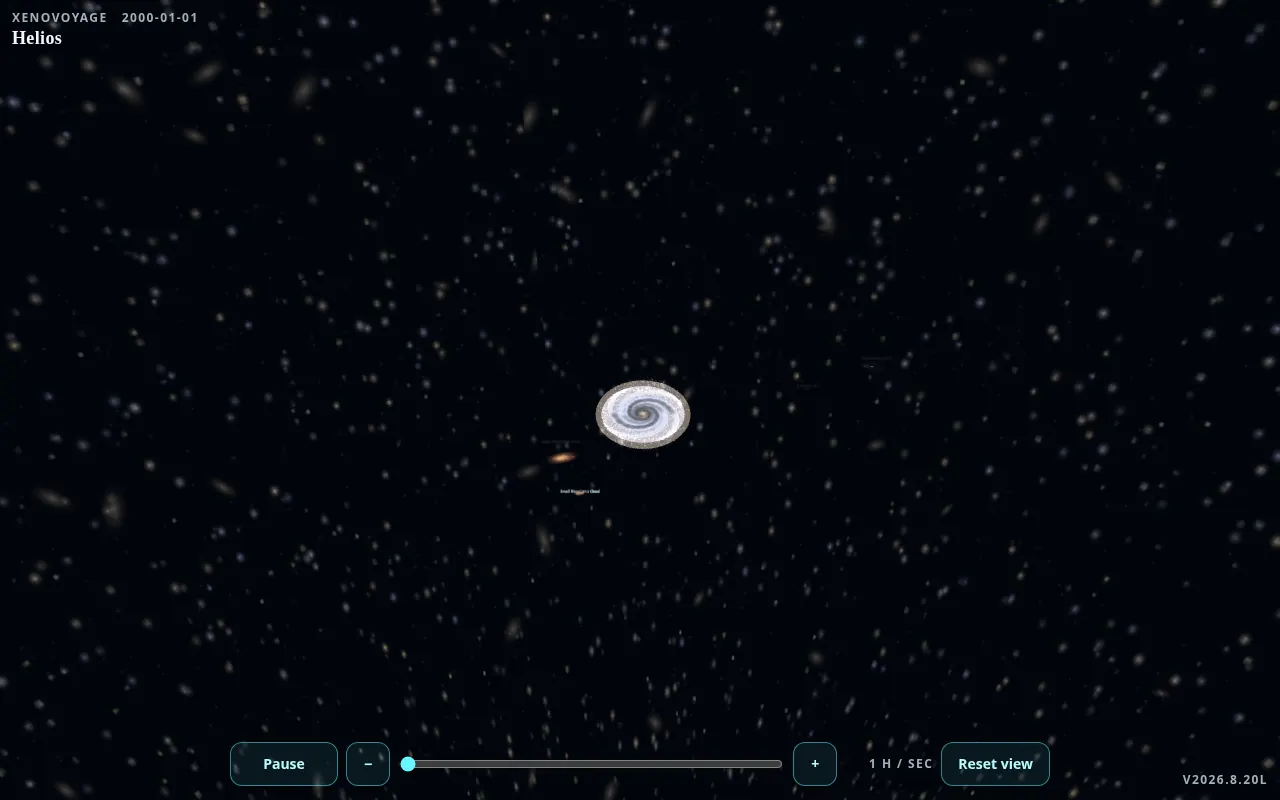
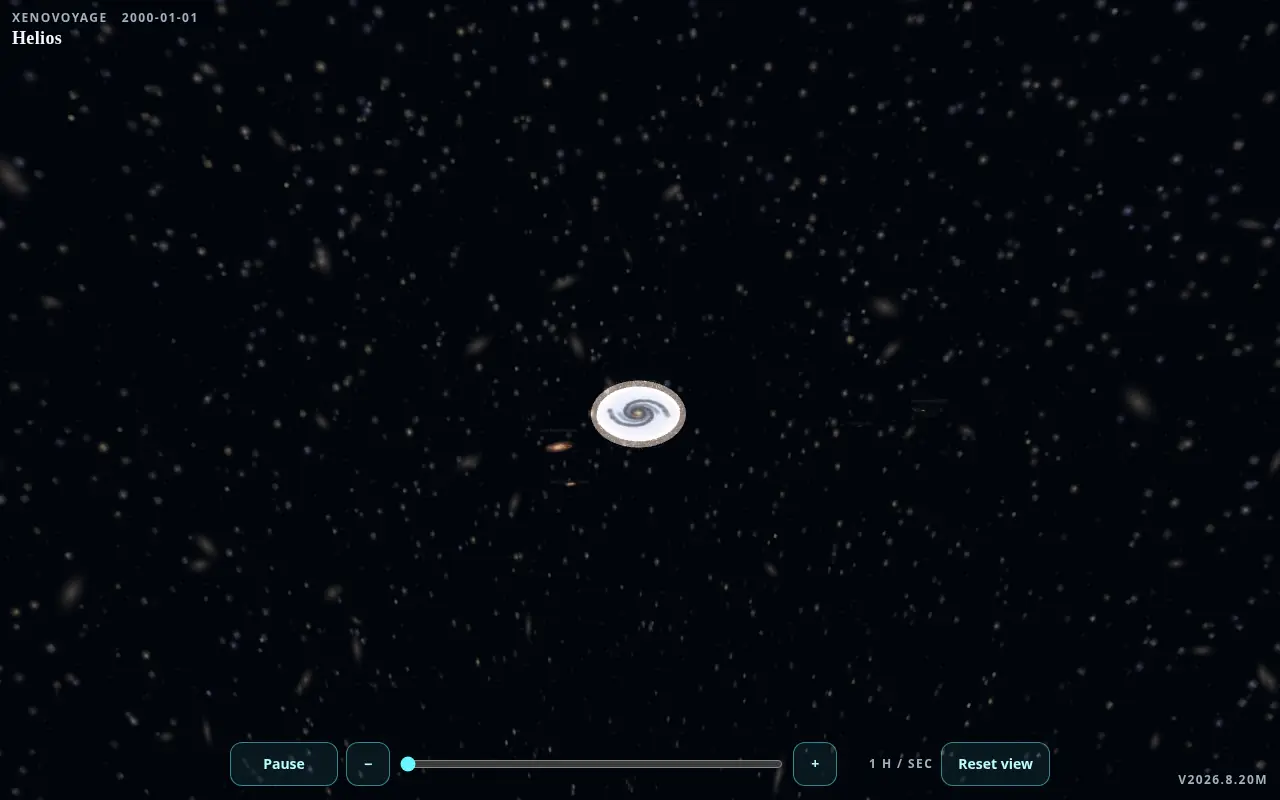
Extra-zoom audit: MW glow, Andromeda, later handoff
* Extra-zoom audit: keep MW, Andromeda, and handoff readable.

Aim ?look=handoff at the mid solar-to-MW fade so Kuiper still reads,
strengthen the luminous disk from glancing angles, stand Andromeda
off the Milky Way at neighborhood, and sample the far-galaxy sky
on the sphere so poles do not pinch.

* Recapture extra-zoom stills after the audit fix.

Dial the MW glow back so face-on stays a spiral instead of a
white plate. Keep the mid-fade handoff, Andromeda stand-off,
and spherical far-galaxy sky sampling.

---------

diff --git a/js/galaxy.js b/js/galaxy.js
@@ -339,7 +339,7 @@ function neighborFamilyAim(azimuthNudge = 0, elevationNudge = 0) {
 }
 
 export function neighborhoodCameraAim() {
-  return neighborFamilyAim();
+  return neighborFamilyAim(0.22, -0.04);
 }
 
 export function localGroupCameraAim() {
@@ -618,10 +618,10 @@ function milkyWayDiskMap(THREE) {
   const beta0 = Math.PI - thetaSun;
 
   const disk = ctx.createRadialGradient(cx, cy, 2, cx, cy, diskPx);
-  disk.addColorStop(0, "rgba(255, 226, 186, 0.92)");
-  disk.addColorStop(0.12, "rgba(255, 196, 148, 0.58)");
-  disk.addColorStop(0.34, "rgba(160, 180, 240, 0.38)");
-  disk.addColorStop(0.7, "rgba(100, 130, 210, 0.2)");
+  disk.addColorStop(0, "rgba(255, 226, 186, 0.9)");
+  disk.addColorStop(0.12, "rgba(255, 196, 148, 0.5)");
+  disk.addColorStop(0.34, "rgba(160, 180, 240, 0.3)");
+  disk.addColorStop(0.78, "rgba(100, 130, 210, 0.08)");
   disk.addColorStop(1, "rgba(0, 0, 0, 0)");
   ctx.fillStyle = disk;
   ctx.fillRect(0, 0, size, size);
@@ -652,8 +652,8 @@ function milkyWayDiskMap(THREE) {
       const y = cy + Math.sin(a) * r + (rand() - 0.5) * scatter;
       const fade = (1 - t * 0.55) * arm.alpha;
       stampSoft(ctx, x + 5, y + 3, 8 + t * 12, `rgba(40, 28, 22, ${0.1 * fade})`);
-      stampSoft(ctx, x, y, 18 + t * 24, `rgba(170, 200, 255, ${0.48 * fade})`);
-      stampSoft(ctx, x, y, 10 + t * 14, `rgba(255, 236, 210, ${0.62 * fade})`);
+      stampSoft(ctx, x, y, 18 + t * 24, `rgba(170, 200, 255, ${0.52 * fade})`);
+      stampSoft(ctx, x, y, 10 + t * 14, `rgba(255, 236, 210, ${0.66 * fade})`);
     }
     const clumps = arm.alpha > 0.8 ? 70 : 32;
     for (let i = 0; i < clumps; i += 1) {
@@ -856,13 +856,13 @@ function createDiskGlow(THREE, group) {
     new THREE.SphereGeometry(radius * 1.12, 40, 24),
     unlitBasic(THREE, {
       color: 0xffe2c4,
-      opacity: 0.24,
+      opacity: 0.28,
       side: THREE.DoubleSide,
       blending: THREE.AdditiveBlending,
     }),
   );
   glow.position.set(gc.x, gc.y, gc.z);
-  glow.scale.set(1, clamp((halfH * 4.2) / radius, 0.22, 0.42), 1);
+  glow.scale.set(1, clamp((halfH * 4.4) / radius, 0.24, 0.44), 1);
   glow.name = "mw-glow";
   group.add(glow);
 
@@ -870,13 +870,13 @@ function createDiskGlow(THREE, group) {
     new THREE.SphereGeometry(radius * 0.98, 48, 20),
     unlitBasic(THREE, {
       color: 0xd0dcff,
-      opacity: 0.2,
+      opacity: 0.26,
       side: THREE.DoubleSide,
       blending: THREE.AdditiveBlending,
     }),
   );
   edge.position.set(gc.x, gc.y, gc.z);
-  edge.scale.set(1, clamp((halfH * 2.6) / radius, 0.14, 0.28), 1);
+  edge.scale.set(1, clamp((halfH * 2.8) / radius, 0.16, 0.3), 1);
   edge.name = "mw-disk-edge";
   group.add(edge);
 
@@ -915,7 +915,7 @@ function neighborSpriteSize(neighbor) {
 }
 
 function neighborSizeBoost(neighbor) {
-  if (neighbor.id === "m31") return 2.15;
+  if (neighbor.id === "m31") return 2.4;
   if (neighbor.id === "lmc") return 1.85;
   if (neighbor.id === "smc") return 1.7;
   return 1.2;
@@ -934,10 +934,10 @@ function quietAndromedaMap(THREE) {
   ctx.rotate(-0.32);
   ctx.scale(1, 0.38);
   const disk = ctx.createRadialGradient(0, 0, 6, 0, 0, 118);
-  disk.addColorStop(0, "rgba(255, 228, 190, 0.95)");
-  disk.addColorStop(0.18, "rgba(210, 180, 150, 0.45)");
-  disk.addColorStop(0.55, "rgba(120, 140, 200, 0.22)");
-  disk.addColorStop(1, "rgba(40, 50, 80, 0)");
+  disk.addColorStop(0, "rgba(255, 232, 196, 1)");
+  disk.addColorStop(0.16, "rgba(230, 186, 140, 0.72)");
+  disk.addColorStop(0.48, "rgba(150, 120, 90, 0.4)");
+  disk.addColorStop(1, "rgba(50, 40, 30, 0)");
   ctx.fillStyle = disk;
   ctx.beginPath();
   ctx.arc(0, 0, 118, 0, Math.PI * 2);
@@ -964,7 +964,7 @@ function createNeighbors(THREE, group, maps) {
       : maps[galaxyKind(neighbor.id)] ?? maps.spiral;
     const sprite = new THREE.Sprite(unlitSprite(THREE, {
       map,
-      color: neighbor.id === "m31" ? 0xf4f0ea : 0xffffff,
+      color: neighbor.id === "m31" ? 0xffe8c8 : 0xffffff,
       depthTest: neighbor.id !== "m31",
       opacity: 0.96,
     }));
@@ -987,7 +987,7 @@ function createNeighbors(THREE, group, maps) {
     const label = neighbor.messier ? `${neighbor.name} (${neighbor.messier})` : neighbor.name;
     const lift = size * aspect * 0.65 + 48;
     const side = neighbor.id === "smc" ? 180 : neighbor.id === "lmc" ? -80 : 0;
-    const labelScale = neighbor.id === "lmc" || neighbor.id === "smc" ? 4.8 : neighbor.id === "m31" ? 5.2 : 4.4;
+    const labelScale = neighbor.id === "lmc" || neighbor.id === "smc" ? 4.8 : neighbor.id === "m31" ? 6.2 : 4.4;
     cluster.add(labelSprite(THREE, label, { x: at.x + side, y: at.y + lift, z: at.z }, labelScale));
   }
   group.add(cluster);
@@ -1419,20 +1419,27 @@ function farGalaxySkyMap(THREE) {
   ctx.fillRect(0, 0, width, height);
   const rand = seedRandom(4608);
   for (let i = 0; i < 14000; i += 1) {
-    const x = rand() * width;
-    const y = rand() * height;
+    const theta = rand() * Math.PI * 2;
+    const phi = Math.acos(2 * rand() - 1);
+    const x = (theta / (Math.PI * 2)) * width;
+    const y = (phi / Math.PI) * height;
+    const pole = Math.sin(phi);
     const warm = rand();
     stampSoft(
       ctx,
       x,
       y,
-      0.8 + rand() * 2.4,
+      (0.7 + rand() * 2.2) * (0.4 + 0.6 * pole),
       `rgba(${Math.floor(150 + 95 * warm)}, ${Math.floor(165 + 55 * warm)}, ${Math.floor(215 - 40 * warm)}, ${0.28 + rand() * 0.5})`,
     );
   }
   for (let i = 0; i < 420; i += 1) {
-    const x = rand() * width;
-    const y = rand() * height;
+    const theta = rand() * Math.PI * 2;
+    const phi = Math.acos(2 * rand() - 1);
+    const pole = Math.sin(phi);
+    if (pole < 0.28) continue;
+    const x = (theta / (Math.PI * 2)) * width;
+    const y = (phi / Math.PI) * height;
     ctx.save();
     ctx.translate(x, y);
     ctx.rotate(rand() * Math.PI);

diff --git a/js/config.js b/js/config.js
@@ -14,7 +14,7 @@
  * compressed-Mpc, or compressed-Gpc mappings, not AU.
  */
 export const CONFIG = Object.freeze({
-  VERSION: "v2026.8.20l",
+  VERSION: "v2026.8.20m",
   earthRadiusKm: 6371,
   auKm: 149597870.7,
   visualScale: 2.6,
@@ -56,6 +56,8 @@ export const CONFIG = Object.freeze({
   universeViewDistance: 800000,
   galaxyFadeStart: 1880,
   galaxyFadeEnd: 11000,
+  // Mid solar→MW fade: Kuiper still reads, planet labels already gone.
+  handoffViewDistance: 6000,
   // kpc → scene for the Milky Way disk. Not the AU orbit curve.
   mwScale: 82,
   mwPower: 0.95,

diff --git a/js/app.js b/js/app.js
@@ -230,7 +230,7 @@ function boot() {
       state.focusedId = "sun";
     } else if (galaxyLook === "handoff") {
       const aim = milkyWayCameraAim();
-      state.distance = CONFIG.galaxyFadeEnd;
+      state.distance = CONFIG.handoffViewDistance;
       state.azimuth = aim.azimuth;
       state.elevation = aim.elevation;
       state.focusedId = "sun";

diff --git a/README.md b/README.md
@@ -1,6 +1,6 @@
 # Helios
 
-[![Version v2026.8.20l](https://img.shields.io/badge/version-v2026.8.20l-66f7ff)](VERSION.txt)
+[![Version v2026.8.20m](https://img.shields.io/badge/version-v2026.8.20m-66f7ff)](VERSION.txt)
 [![MIT](https://img.shields.io/badge/license-MIT-a77bff)](LICENSE)
 
 An interactive 3D orrery of the solar system.
